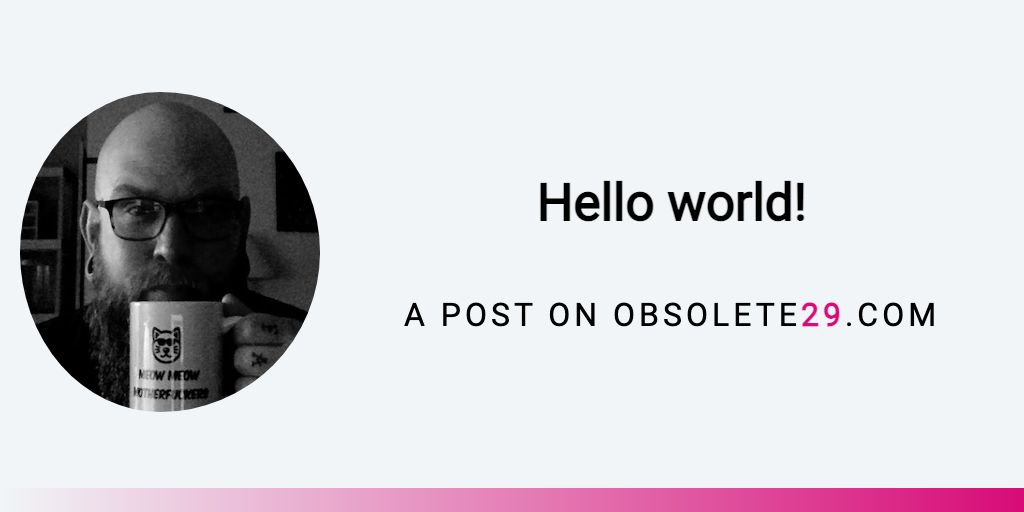
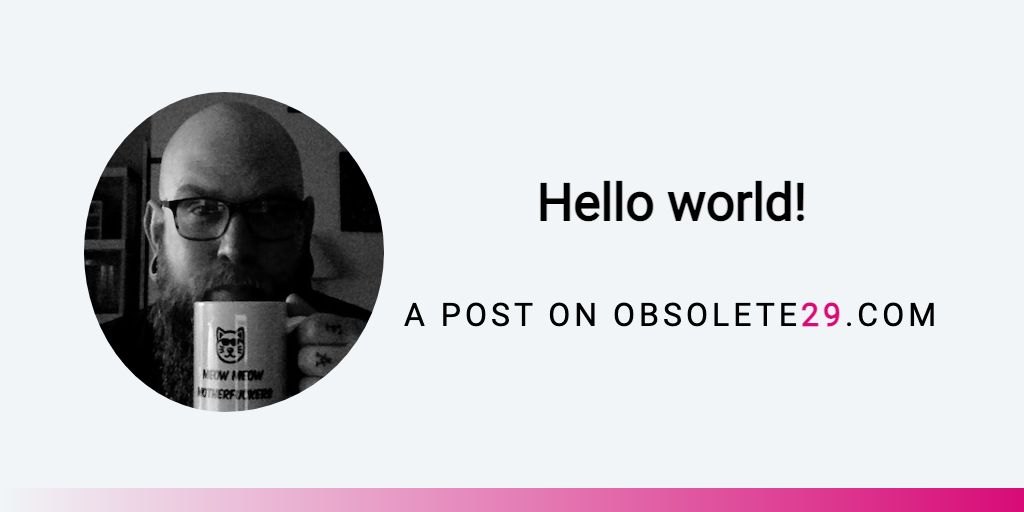
Add padding left/right for twitter card

Changed region(s): [[0.0, 0.1562, 0.375, 0.8125]]

diff --git a/posts/hello-world/og-image/index.html b/posts/hello-world/og-image/index.html
@@ -69,6 +69,10 @@
         }
 
         @media (max-width: 512px) {
+            .container {
+                padding-left: 2em;
+                padding-right: 2em;
+            }
             .profile-image {
                 width: 160px;
                 height: 160px;

diff --git a/posts/learning-web-dev/og-image/index.html b/posts/learning-web-dev/og-image/index.html
@@ -69,6 +69,10 @@
         }
 
         @media (max-width: 512px) {
+            .container {
+                padding-left: 2em;
+                padding-right: 2em;
+            }
             .profile-image {
                 width: 160px;
                 height: 160px;

diff --git a/posts/lessons-learned-from-bridgestone/og-image/index.html b/posts/lessons-learned-from-bridgestone/og-image/index.html
@@ -69,6 +69,10 @@
         }
 
         @media (max-width: 512px) {
+            .container {
+                padding-left: 2em;
+                padding-right: 2em;
+            }
             .profile-image {
                 width: 160px;
                 height: 160px;

diff --git a/posts/please-meet-my-cats/og-image/index.html b/posts/please-meet-my-cats/og-image/index.html
@@ -69,6 +69,10 @@
         }
 
         @media (max-width: 512px) {
+            .container {
+                padding-left: 2em;
+                padding-right: 2em;
+            }
             .profile-image {
                 width: 160px;
                 height: 160px;
